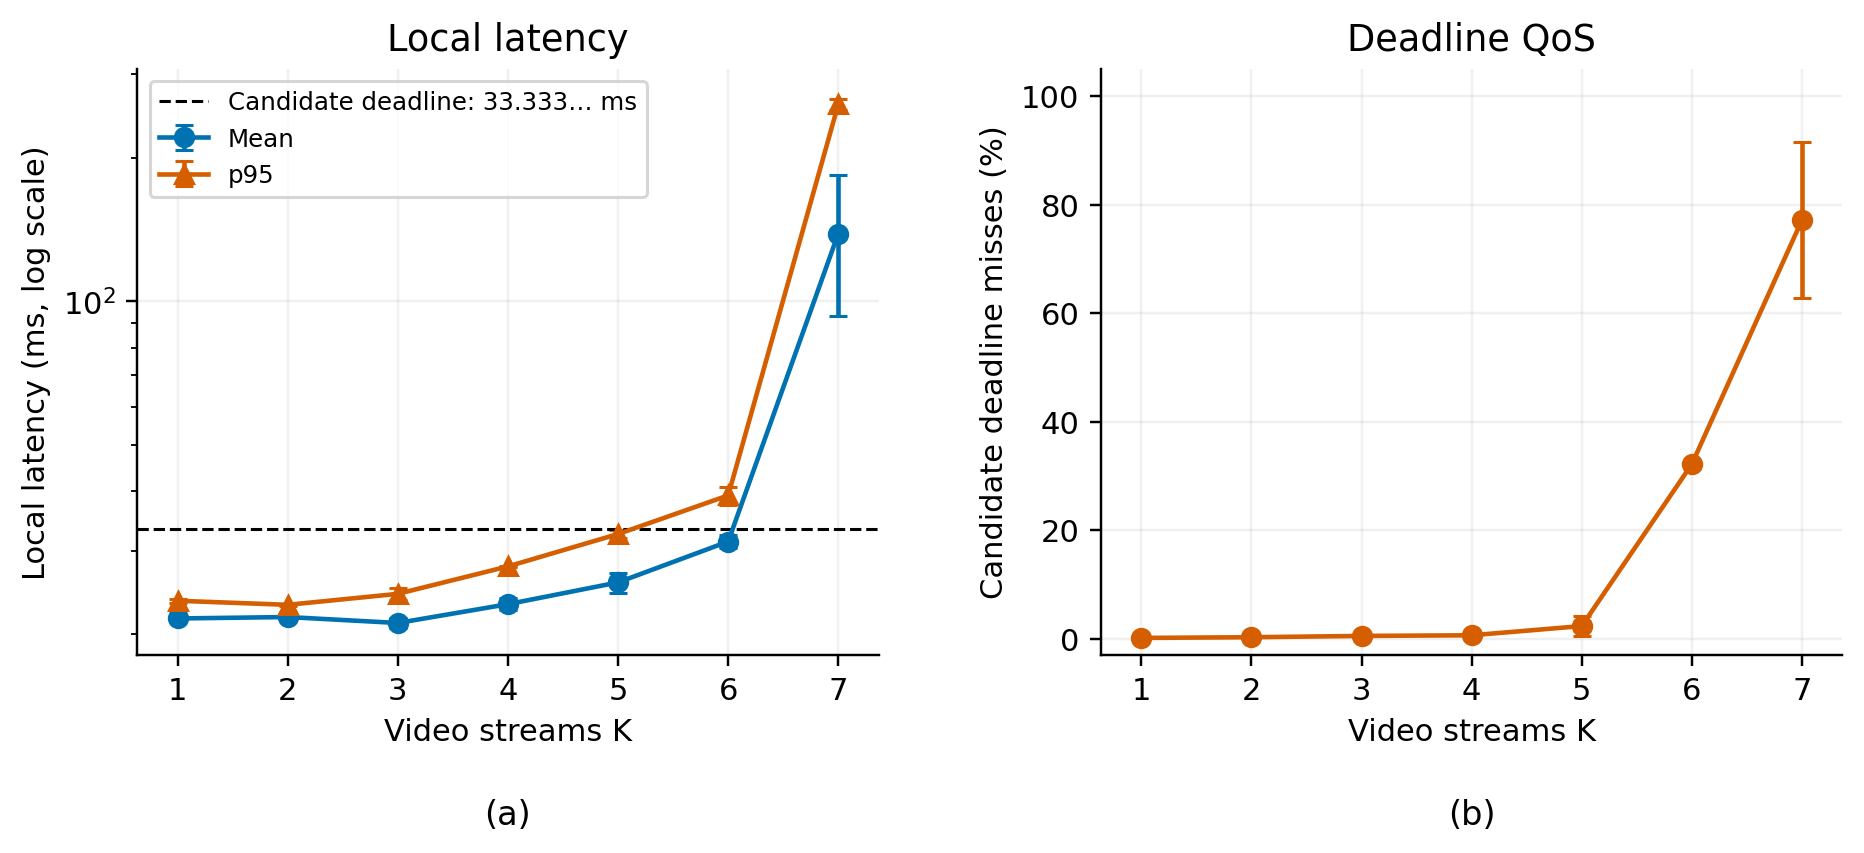
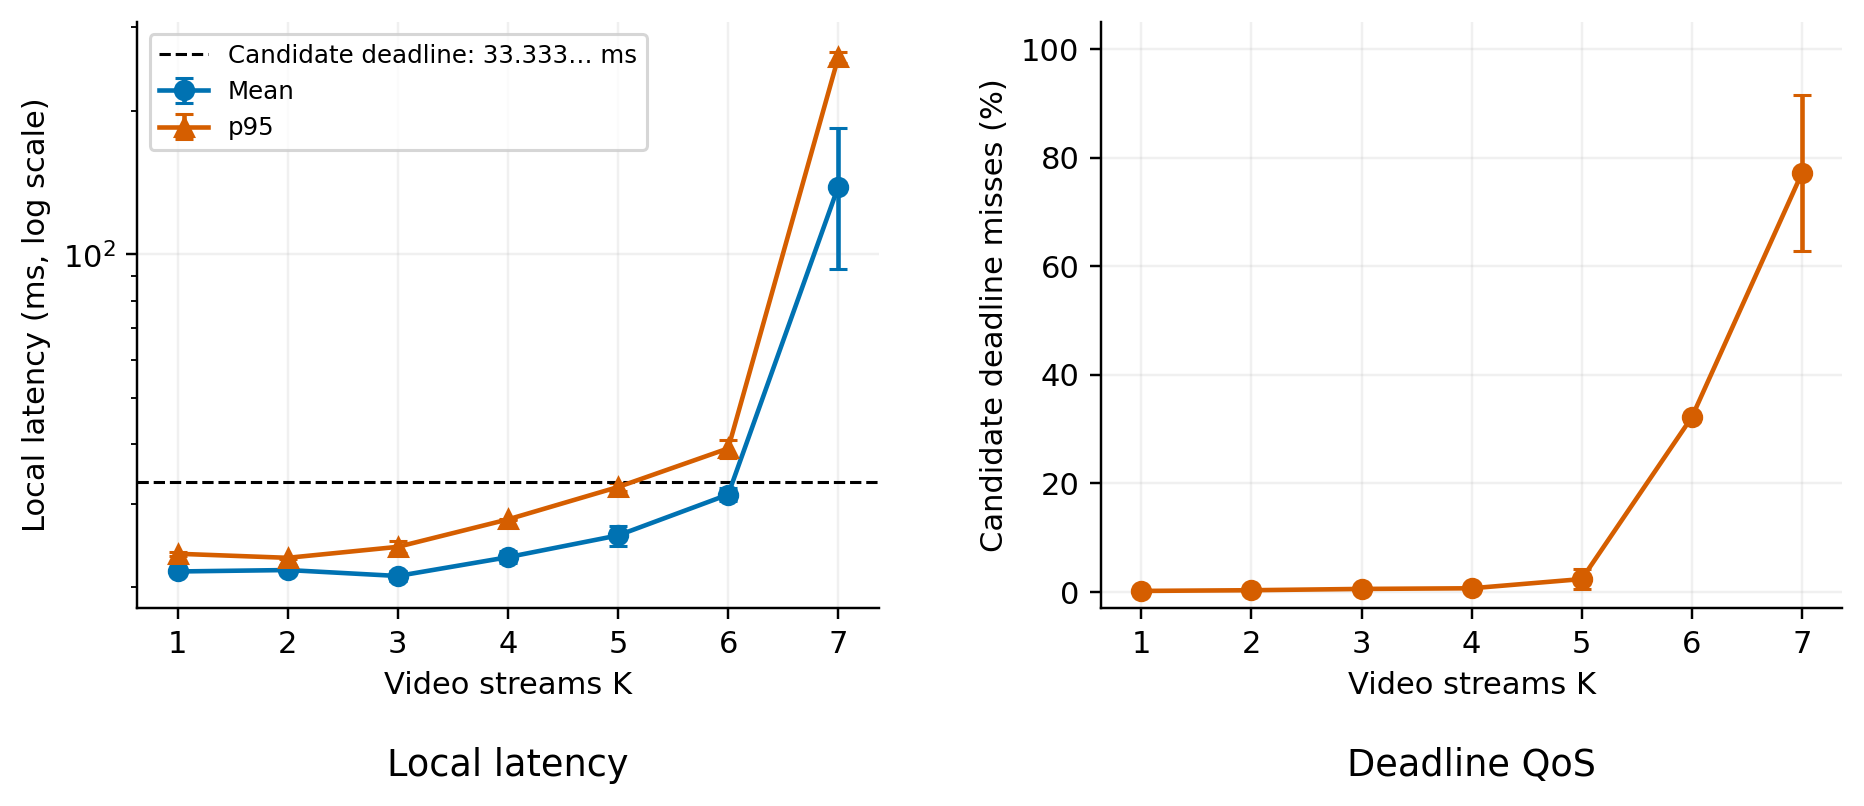
Refine canonical C2 local figures

diff --git a/results/local_canonical_c2/analysis/plot_figures.py b/results/local_canonical_c2/analysis/plot_figures.py
@@ -34,10 +34,10 @@ def main():
  def err(ax,metric,label,color,K=ks,marker='o'):
   a=series(metric,K);ax.errorbar(K,a.mean(axis=1),yerr=a.std(axis=1,ddof=1),label=label,color=color,marker=marker,capsize=3,lw=1.5)
   ax.set_xticks(K);ax.set_xlabel('Video streams K')
- def panel_labels(fig,axes,*,component_legend=False):
+ def bottom_titles(fig,axes,titles=(),*,component_legend=False):
   fig.subplots_adjust(bottom=.36 if component_legend else .23,wspace=.3)
-  for letter,ax in zip('abcd',axes):
-   bb=ax.get_position();fig.text((bb.x0+bb.x1)/2,.18 if component_legend else .035,f'({letter})',ha='center',va='bottom',fontsize=11)
+  for title,ax in zip(titles,axes):
+   bb=ax.get_position();fig.text((bb.x0+bb.x1)/2,.18 if component_legend else .035,title,ha='center',va='bottom',fontsize=plt.rcParams['axes.titlesize'])
  def save(fig,name,caption):
   for ax,limits in zip(fig.axes,axis_limits[name]):
    assert ax.get_xscale()==limits['xscale'] and ax.get_yscale()==limits['yscale']
@@ -49,8 +49,7 @@ def main():
  axes[0].axhline(1000/30,color='black',ls='--',lw=1,label='Candidate deadline: 33.333… ms')
  axes[0].set_yscale('log');axes[0].set_ylabel('Local latency (ms, log scale)');axes[0].legend(fontsize=8)
  err(axes[1],'deadline_miss_pct','Deadline miss',red);axes[1].set_ylabel('Candidate deadline misses (%)');axes[1].set_ylim(-3,105)
- axes[0].set_title('Local latency');axes[1].set_title('Deadline QoS')
- panel_labels(fig,axes);save(fig,'figure_1_local_qos','Canonical C2 only. Mean and p95: arithmetic means of five run statistics; error bars sample SD. Individual run statistics remain in the accompanying tables. Deadline computed exactly from integer ns; candidate cadence deadline, not application SLA. Log latency axis retains all K without excluding startup.')
+ bottom_titles(fig,axes,['Local latency','Deadline QoS']);save(fig,'figure_1_local_qos','Canonical C2 only. Mean and p95: arithmetic means of five run statistics; error bars sample SD. Individual run statistics remain in the accompanying tables. Deadline computed exactly from integer ns; candidate cadence deadline, not application SLA. Log latency axis retains all K without excluding startup.')
  # All components remain in ms. Split high-load scale only when its mean dwarfs lower K.
  ratio=series('local_latency_mean_ms')[-1].mean()/series('local_latency_mean_ms')[-2].mean()
  groups=[ks[:6],[7]] if ratio>3 else [ks]
@@ -61,36 +60,35 @@ def main():
   for comp,label,color in zip(['start_lag','front_end','queue_wait','inference'],labels,colors):
    values=series(comp+'_mean_ms',K).mean(axis=1);ax.bar(K,values,bottom=bottom,color=color,label=label);bottom+=values
   ax.set_xticks(K);ax.set_xlabel('Video streams K');ax.set_ylabel('Mean per-frame local latency (ms)');ax.set_ylim(bottom=0)
-  ax.set_title('Independent y scale' if len(groups)>1 else '')
- fig.legend(labels,loc='lower center',bbox_to_anchor=(.5,.015),ncol=4,frameon=False,fontsize=9);fig.subplots_adjust(top=.88)
- panel_labels(fig,axes,component_legend=True);save(fig,'figure_2_latency_decomposition','Each stacked height is the mean of five run-level component means. All components are per-frame wall-clock latency, in ms; independent K7 axis used only for readability if necessary. Mean components add exactly; component percentiles are never added.')
+ fig.legend(labels,loc='lower center',bbox_to_anchor=(.5,.015),ncol=4,frameon=False,fontsize=10.2);fig.subplots_adjust(top=.88)
+ bottom_titles(fig,axes,component_legend=True);save(fig,'figure_2_latency_decomposition','Each stacked height is the mean of five run-level component means. All components are per-frame wall-clock latency, in ms; independent K7 axis used only for readability if necessary. Mean components add exactly; component percentiles are never added.')
  with (A/'temporal_timeline_1s.csv').open() as f:timeline=list(csv.DictReader(f))
  tr=T['runs'];fig,axes=plt.subplots(1,3,figsize=(13,4.3))
  x=np.arange(2);width=.32
  for j,(metric,label,color) in enumerate([('ready_span_ms_mean','Mean',blue),('ready_span_ms_p95','p95',red)]):
   a=np.array([[r[metric] for r in tr if r['K']==k] for k in pair]);pos=x+(j-.5)*width
   axes[0].bar(pos,a.mean(axis=1),width,yerr=a.std(axis=1,ddof=1),capsize=3,label=label,color=color)
- axes[0].set_xticks(x,[f'K{k}' for k in pair]);axes[0].set_ylabel('Within-period ready-time span (ms)');axes[0].legend(fontsize=8);axes[0].set_title('Arrival-to-ready dispersion')
+ axes[0].set_xticks(x,[f'K{k}' for k in pair]);axes[0].set_ylabel('Within-period ready-time span (ms)');axes[0].legend(fontsize=8)
  measures=['boundary_prior_waiting_positive_pct','boundary_prior_active_positive_pct','next_first_ready_prior_unfinished_positive_pct']
  names=['Waiting at\nboundary','Active at\nboundary','Prior unfinished at\nnext first-ready'];x=np.arange(3)
  for i,(k,col) in enumerate(zip(pair,[blue,red])):
   a=np.array([[r[m] for r in tr if r['K']==k] for m in measures])
   axes[1].bar(x+(i-.5)*width,a.mean(axis=1),width,yerr=a.std(axis=1,ddof=1),capsize=3,label=f'K{k}',color=col)
- axes[1].set_xticks(x,names,fontsize=8);axes[1].set_ylabel('Periods with carry-over (%)');axes[1].set_ylim(0,108);axes[1].legend(fontsize=8);axes[1].set_title('Waiting and active are distinct')
+ axes[1].set_xticks(x,names,fontsize=8);axes[1].set_ylabel('Periods with carry-over (%)');axes[1].set_ylim(0,108);axes[1].legend(fontsize=8)
  for k,col in zip(pair,[blue,red]):
   for rep in range(1,6):
    rows=[r for r in timeline if int(r['K'])==k and r['run_id']==f'run{rep:02d}']
    axes[2].plot([float(r['second'])+.5 for r in rows],[float(r['waiting_time_mean']) for r in rows],color=col,alpha=.65,lw=.9,label=f'K{k}' if rep==1 else None)
- axes[2].set_xlabel('Actual time relative to t0 (s)');axes[2].set_ylabel('Waiting queue: 1 s time mean');axes[2].set_ylim(bottom=0);axes[2].legend(fontsize=8);axes[2].set_title('All five runs; startup included')
- panel_labels(fig,axes);save(fig,'figure_3_temporal_queue',f'Observed transition K{pair[0]}→K{pair[1]}. Ready span is max(r)-min(r) for K frames in one logical period. Boundary is t0+floor((j+1)*1e9/30); counts earlier logical IDs only. Waiting r<=t<s excludes active s<=t<c. Next first-ready checks all prior unfinished work, including not-yet-ready work. Boundary fractions use 1800 periods; next-first-ready fractions 1799. Bars: five run-level mean ± sample SD. Right: separate exact event-integrated one-second queue traces, never sampled depth. No sum of overlapping service times is interpreted as capacity.')
+ axes[2].set_xlabel('Actual time relative to t0 (s)');axes[2].set_ylabel('Waiting queue: 1 s time mean');axes[2].set_ylim(bottom=0);axes[2].legend(fontsize=8)
+ bottom_titles(fig,axes,['Arrival-to-ready dispersion','Waiting and active are distinct','All five runs; startup included']);save(fig,'figure_3_temporal_queue',f'Observed transition K{pair[0]}→K{pair[1]}. Ready span is max(r)-min(r) for K frames in one logical period. Boundary is t0+floor((j+1)*1e9/30); counts earlier logical IDs only. Waiting r<=t<s excludes active s<=t<c. Next first-ready checks all prior unfinished work, including not-yet-ready work. Boundary fractions use 1800 periods; next-first-ready fractions 1799. Bars: five run-level mean ± sample SD. Right: separate exact event-integrated one-second queue traces, never sampled depth. No sum of overlapping service times is interpreted as capacity.')
  fig,axes=plt.subplots(1,2,figsize=(10,5.2))
- err(axes[0],'deadline_miss_pct','Deadline miss',red);axes[0].set_ylabel('Candidate deadline misses (%)');axes[0].set_ylim(-3,105);axes[0].set_title('QoS degradation with concurrent inference')
+ err(axes[0],'deadline_miss_pct','Deadline miss',red);axes[0].set_ylabel('Candidate deadline misses (%)');axes[0].set_ylim(-3,105)
  err(axes[1],'queue_wait_mean_ms','Queue wait',red);err(axes[1],'inference_mean_ms','Inference service',green,marker='s')
- axes[1].set_ylabel('Mean per-frame duration (ms, log scale)');axes[1].set_yscale('log');axes[1].set_title('Queueing versus service duration')
+ axes[1].set_ylabel('Mean per-frame duration (ms, log scale)');axes[1].set_yscale('log')
  handles,legend_labels=axes[1].get_legend_handles_labels()
  fig.legend(handles,legend_labels,loc='lower center',bbox_to_anchor=(.5,.015),ncol=2,frameon=False,fontsize=9)
  for ax in axes:ax.axvspan(pair[0],pair[1],color=orange,alpha=.1)
- panel_labels(fig,axes,component_legend=True);save(fig,'figure_4_concurrency_queue_deadline','C2-safe motivation summary. Left: exact candidate deadline miss by K. Right: per-frame queue wait and inference service duration, not period service sums or GPU demand. Shading marks the selected observed transition. Five-run means and sample SD retained; individual values remain in accompanying tables. Concurrent outstanding host intervals do not prove physical GPU kernel overlap.')
+ bottom_titles(fig,axes,['QoS degradation with concurrent inference','Queueing versus service duration'],component_legend=True);save(fig,'figure_4_concurrency_queue_deadline','C2-safe motivation summary. Left: exact candidate deadline miss by K. Right: per-frame queue wait and inference service duration, not period service sums or GPU demand. Shading marks the selected observed transition. Five-run means and sample SD retained; individual values remain in accompanying tables. Concurrent outstanding host intervals do not prove physical GPU kernel overlap.')
  with (A/'figure_manifest.json').open('w' if args.replace_generated else 'x') as f:json.dump({'validation':'PASS','PNG_only':True,'old_figures_modified':False,'period_service_sum_reused':False,'figures':manifest},f,indent=2)
  print('Generated four PNG figures')
 if __name__=='__main__':main()
